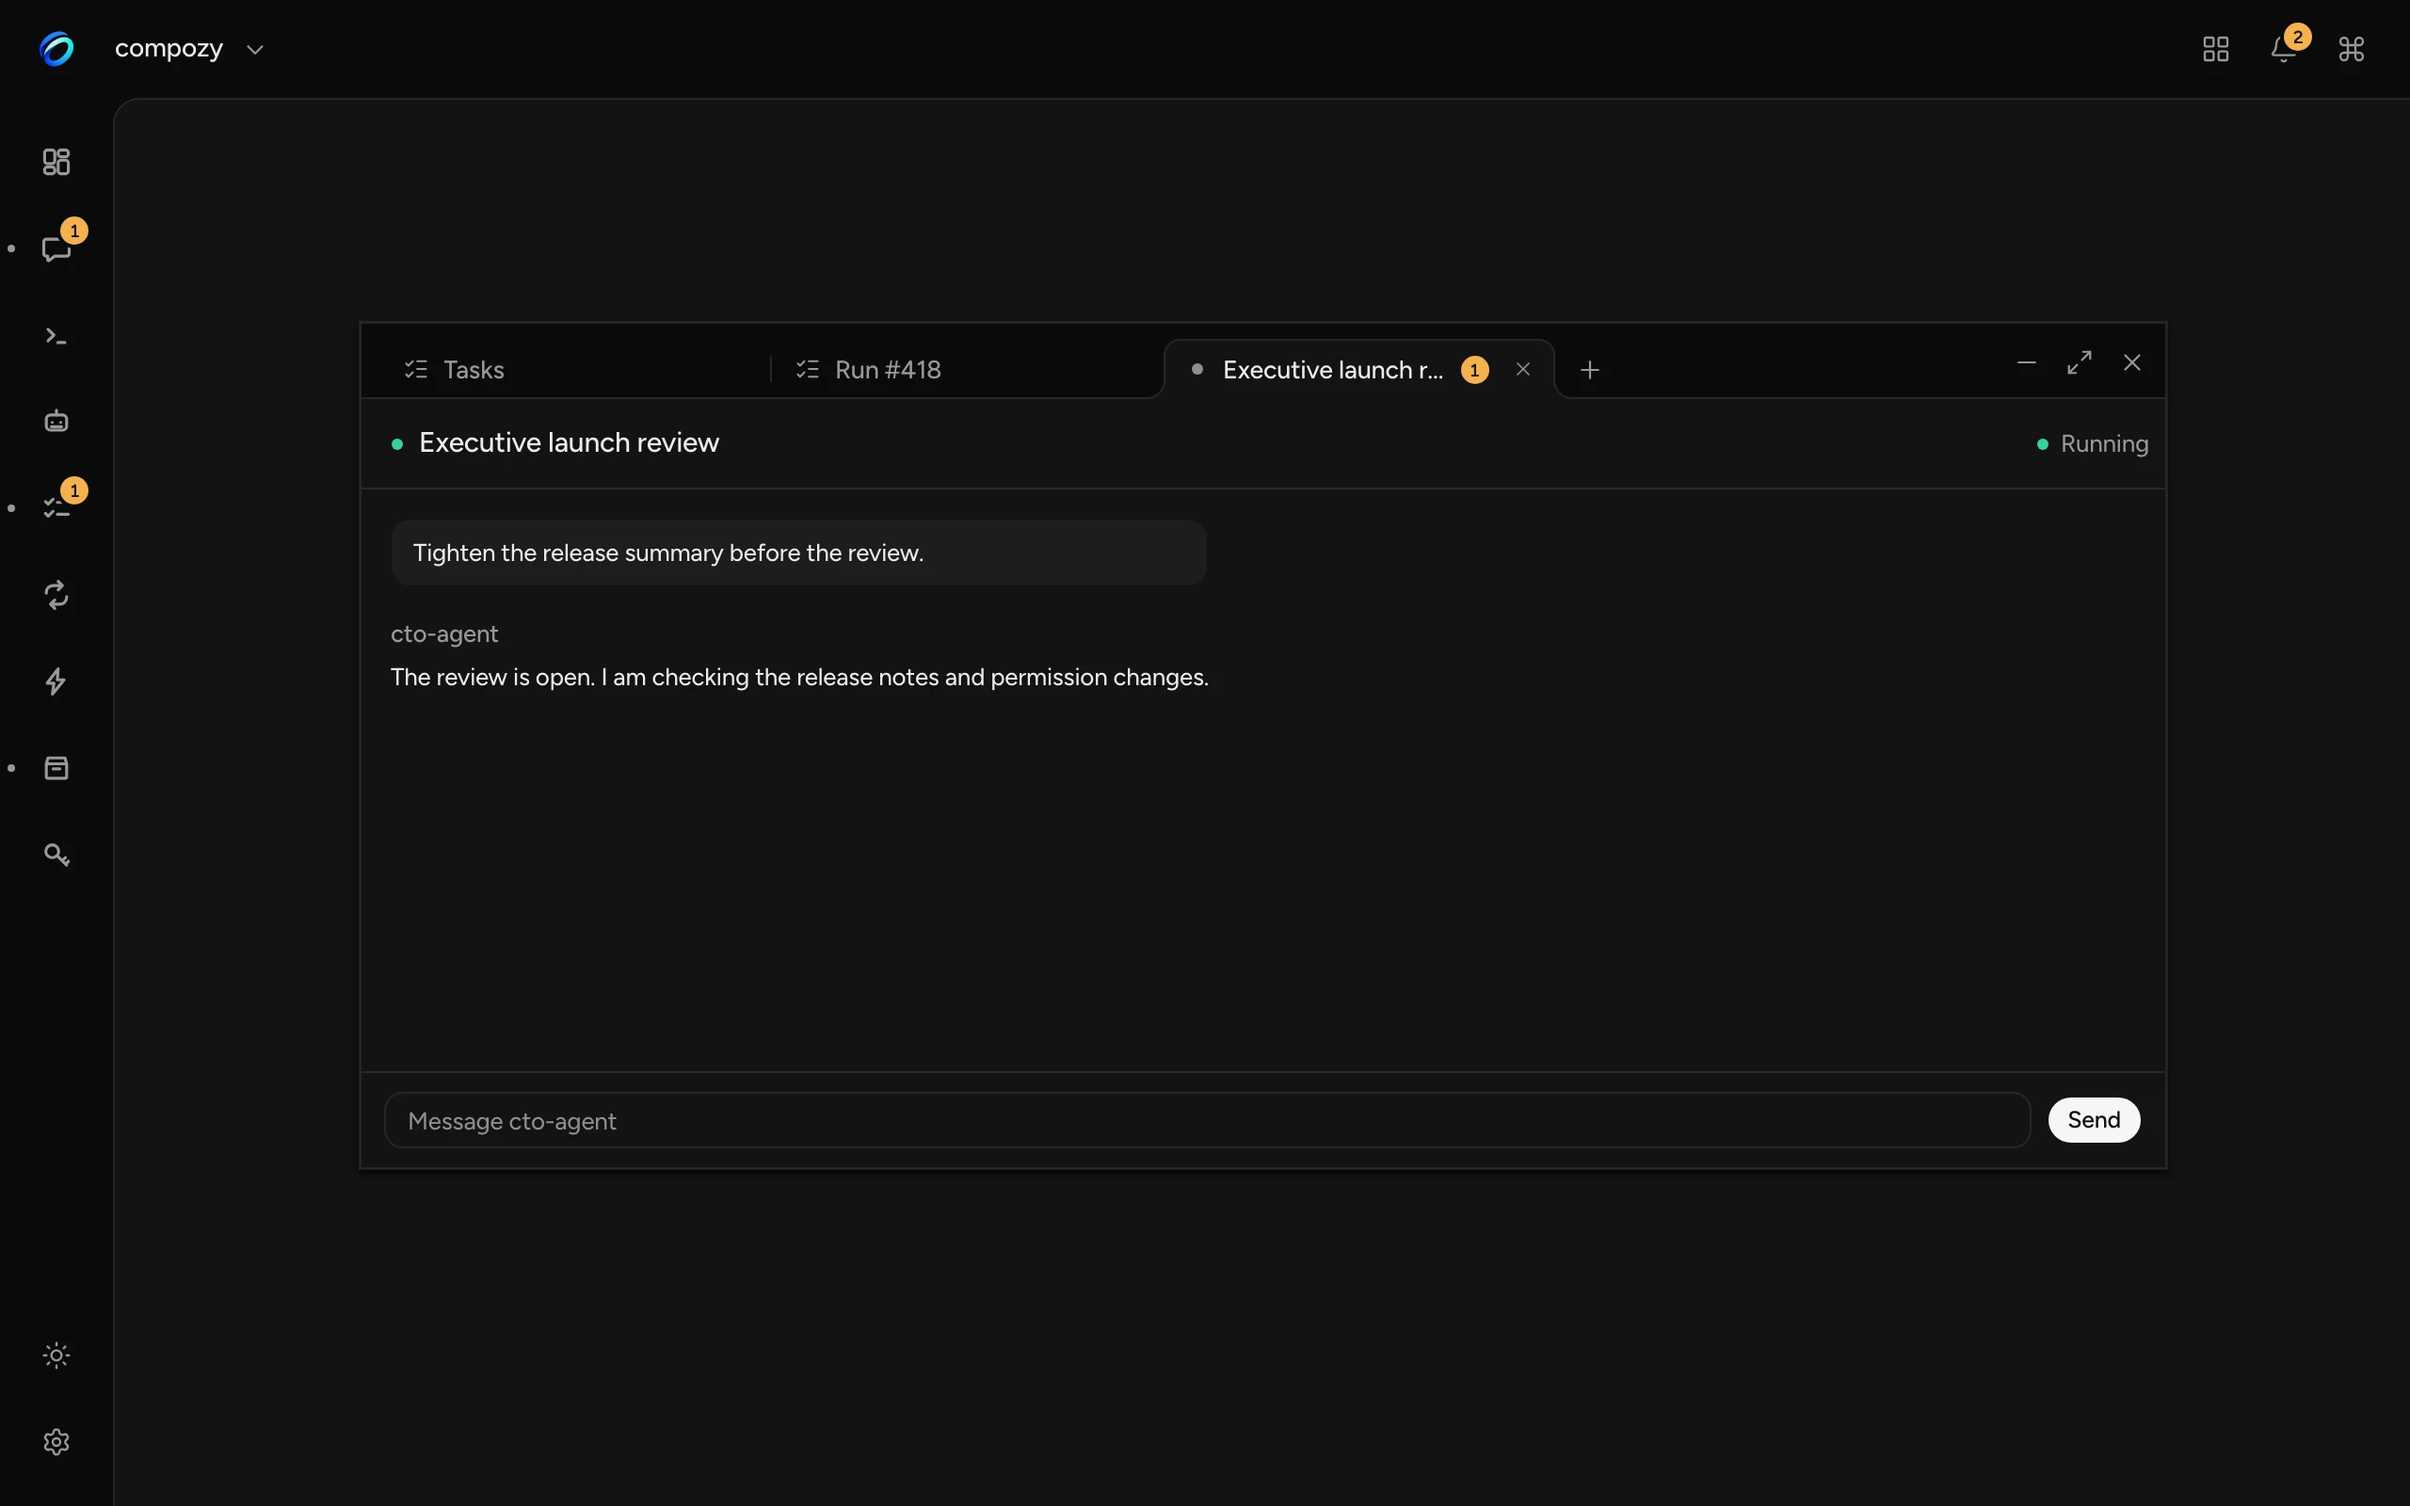
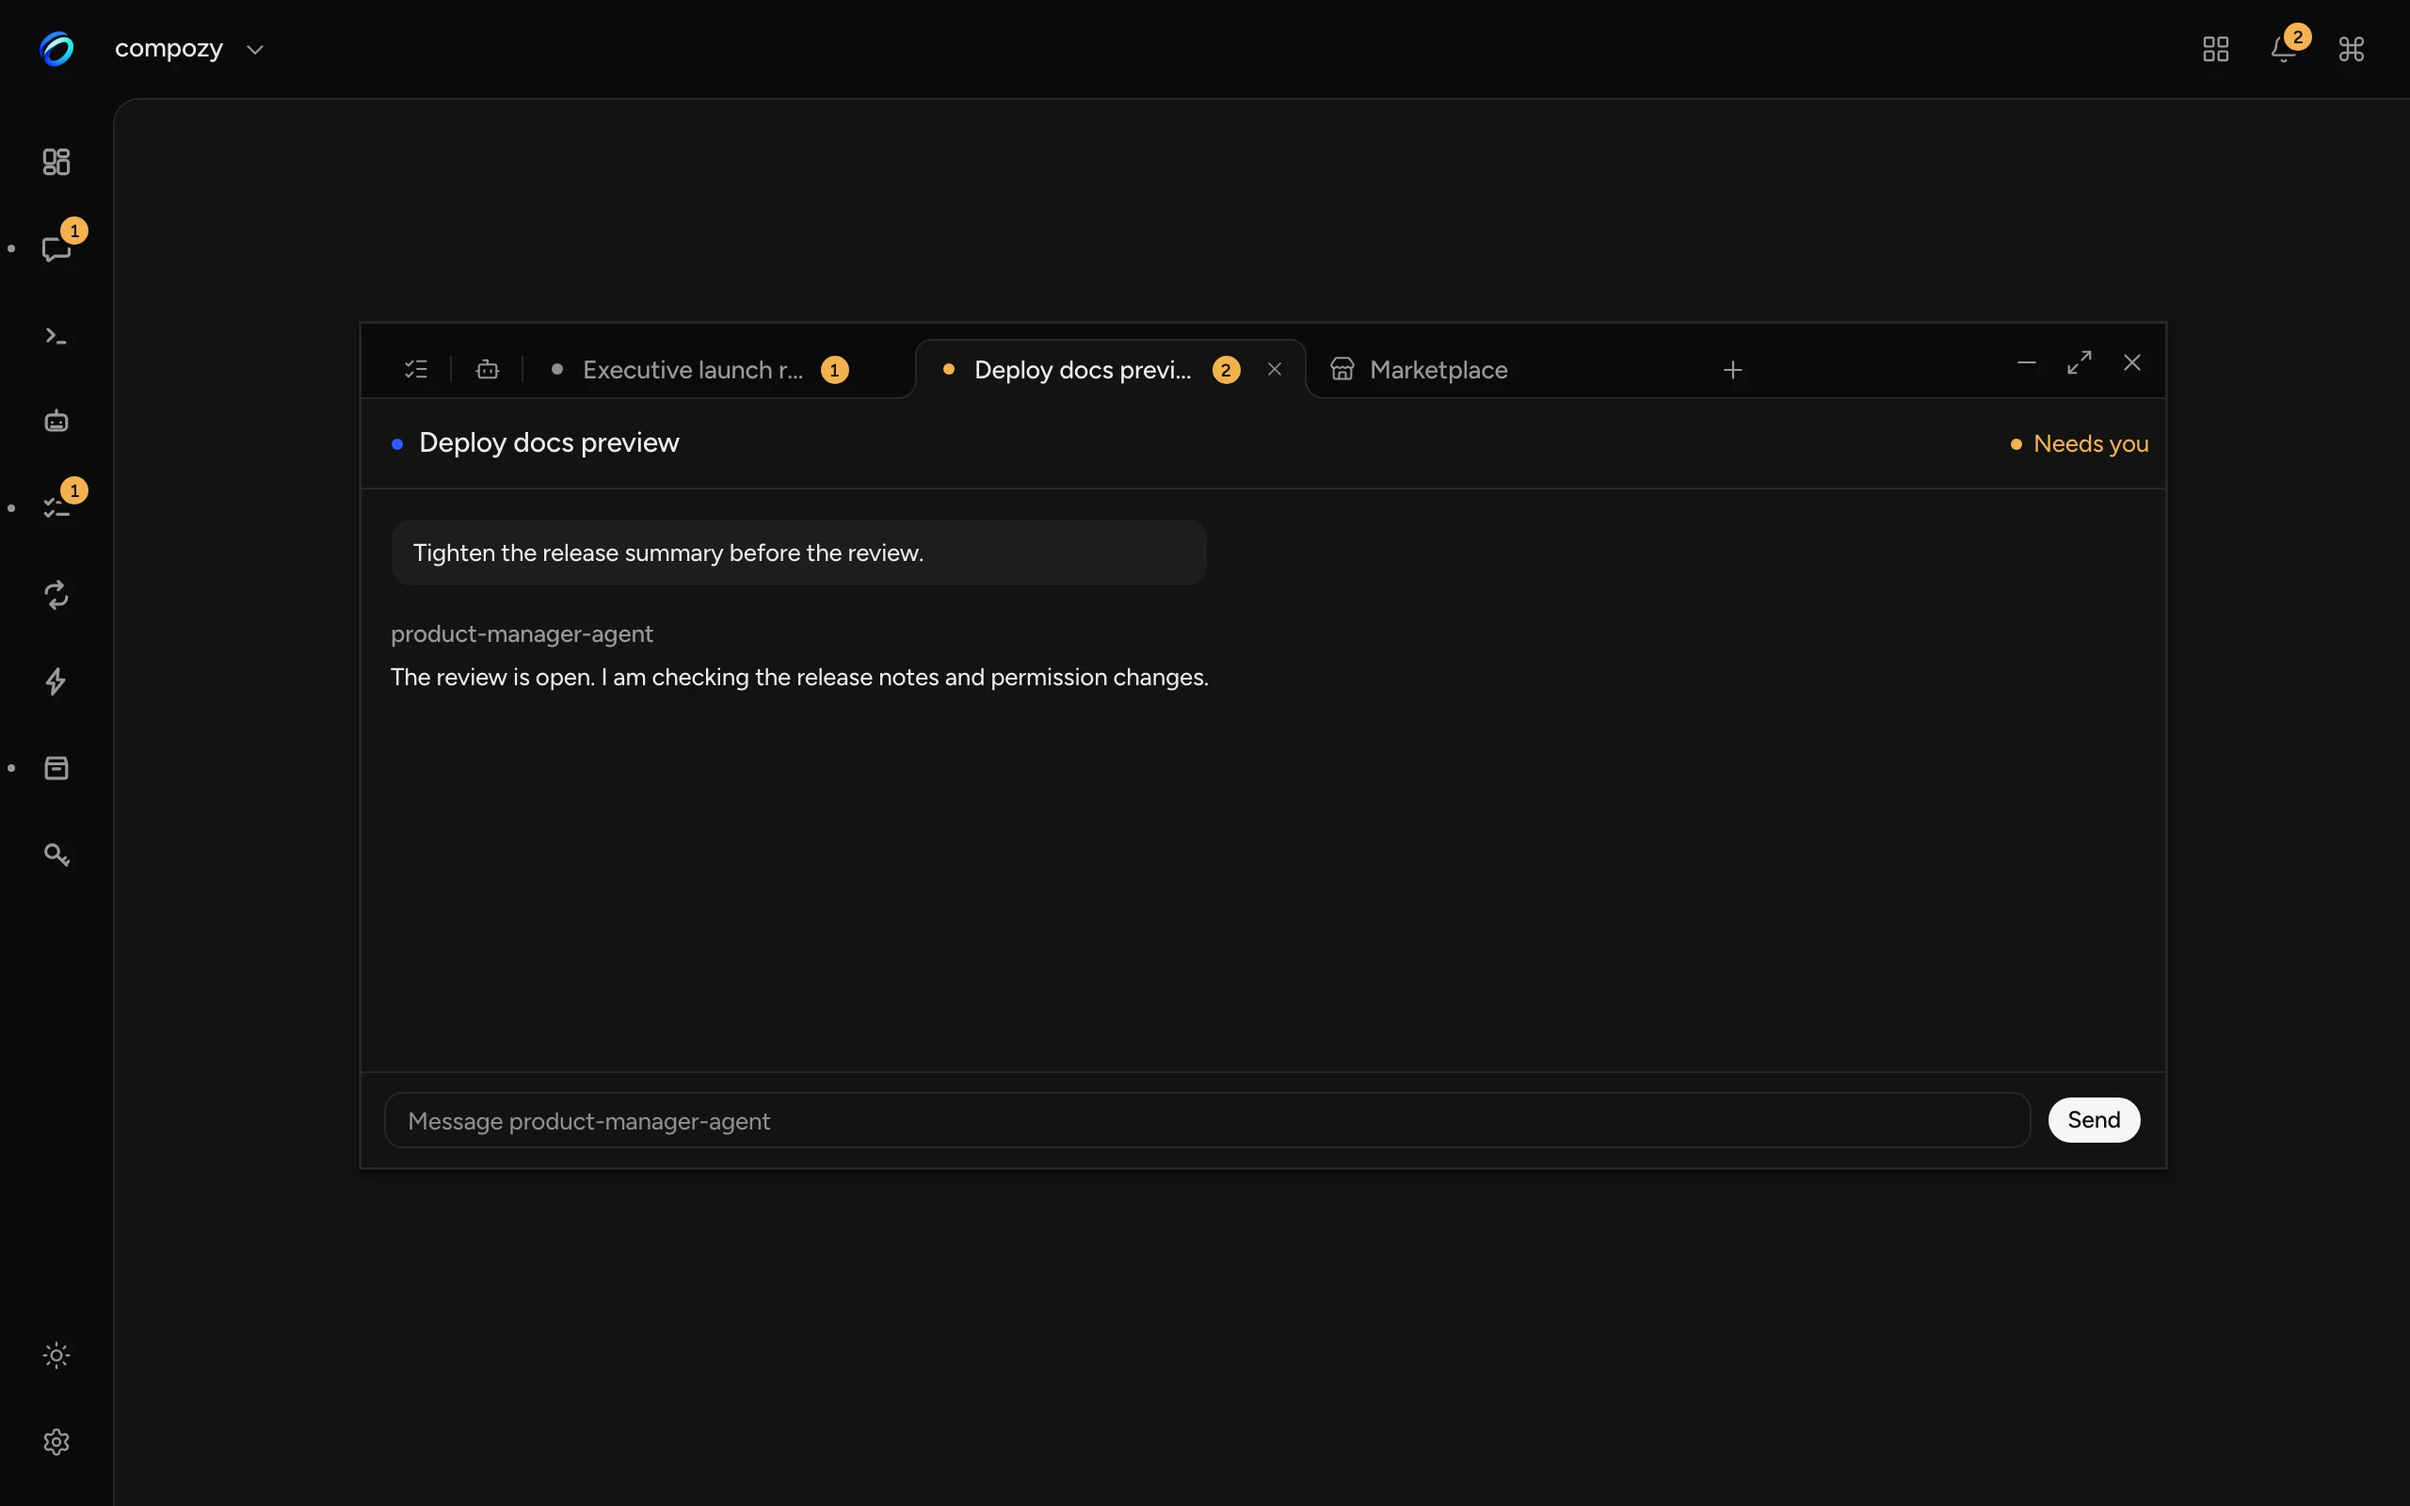
fix: capture the desktop product shot from the pinned mixed-surfaces story

diff --git a/packages/brand/src/manual/art/product-pins.ts b/packages/brand/src/manual/art/product-pins.ts
@@ -25,7 +25,7 @@ export const PRODUCT_SHOT_PINS: readonly ProductShotPin[] = [
   {
     name: "desktop",
     story: "src/systems/os/components/stories/os-window-deck.stories.tsx",
-    exportName: "VC03SessionComposer",
+    exportName: "VC06PinnedMixedSurfaces",
     viewport: { width: 1280, height: 800 },
   },
   {
